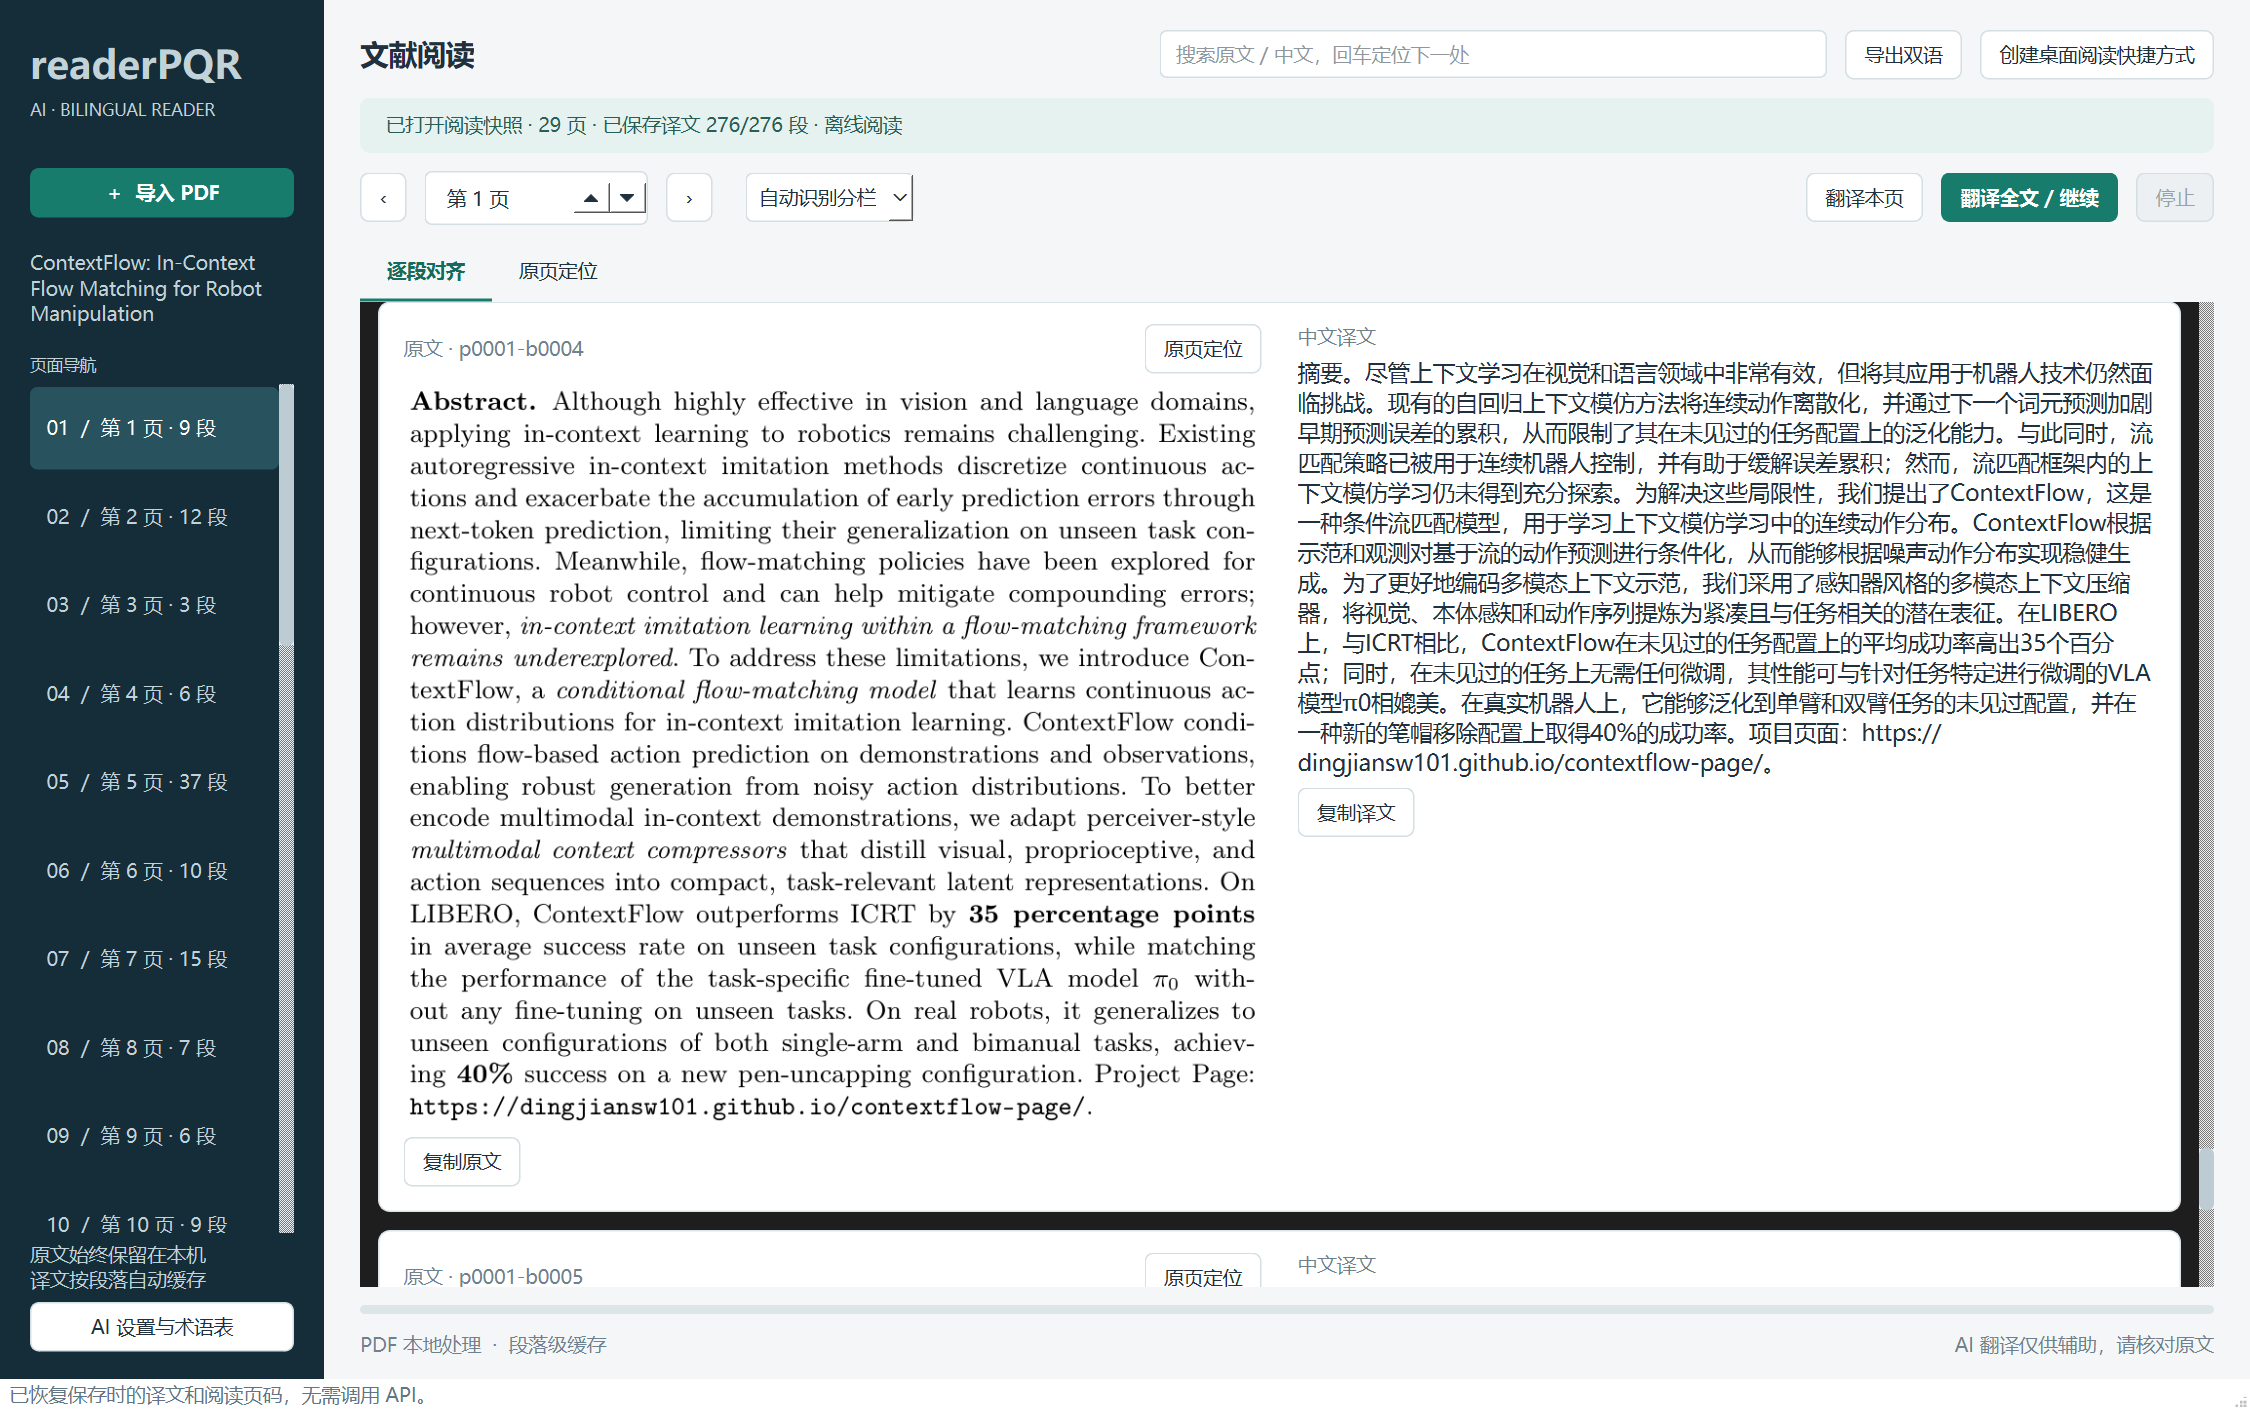
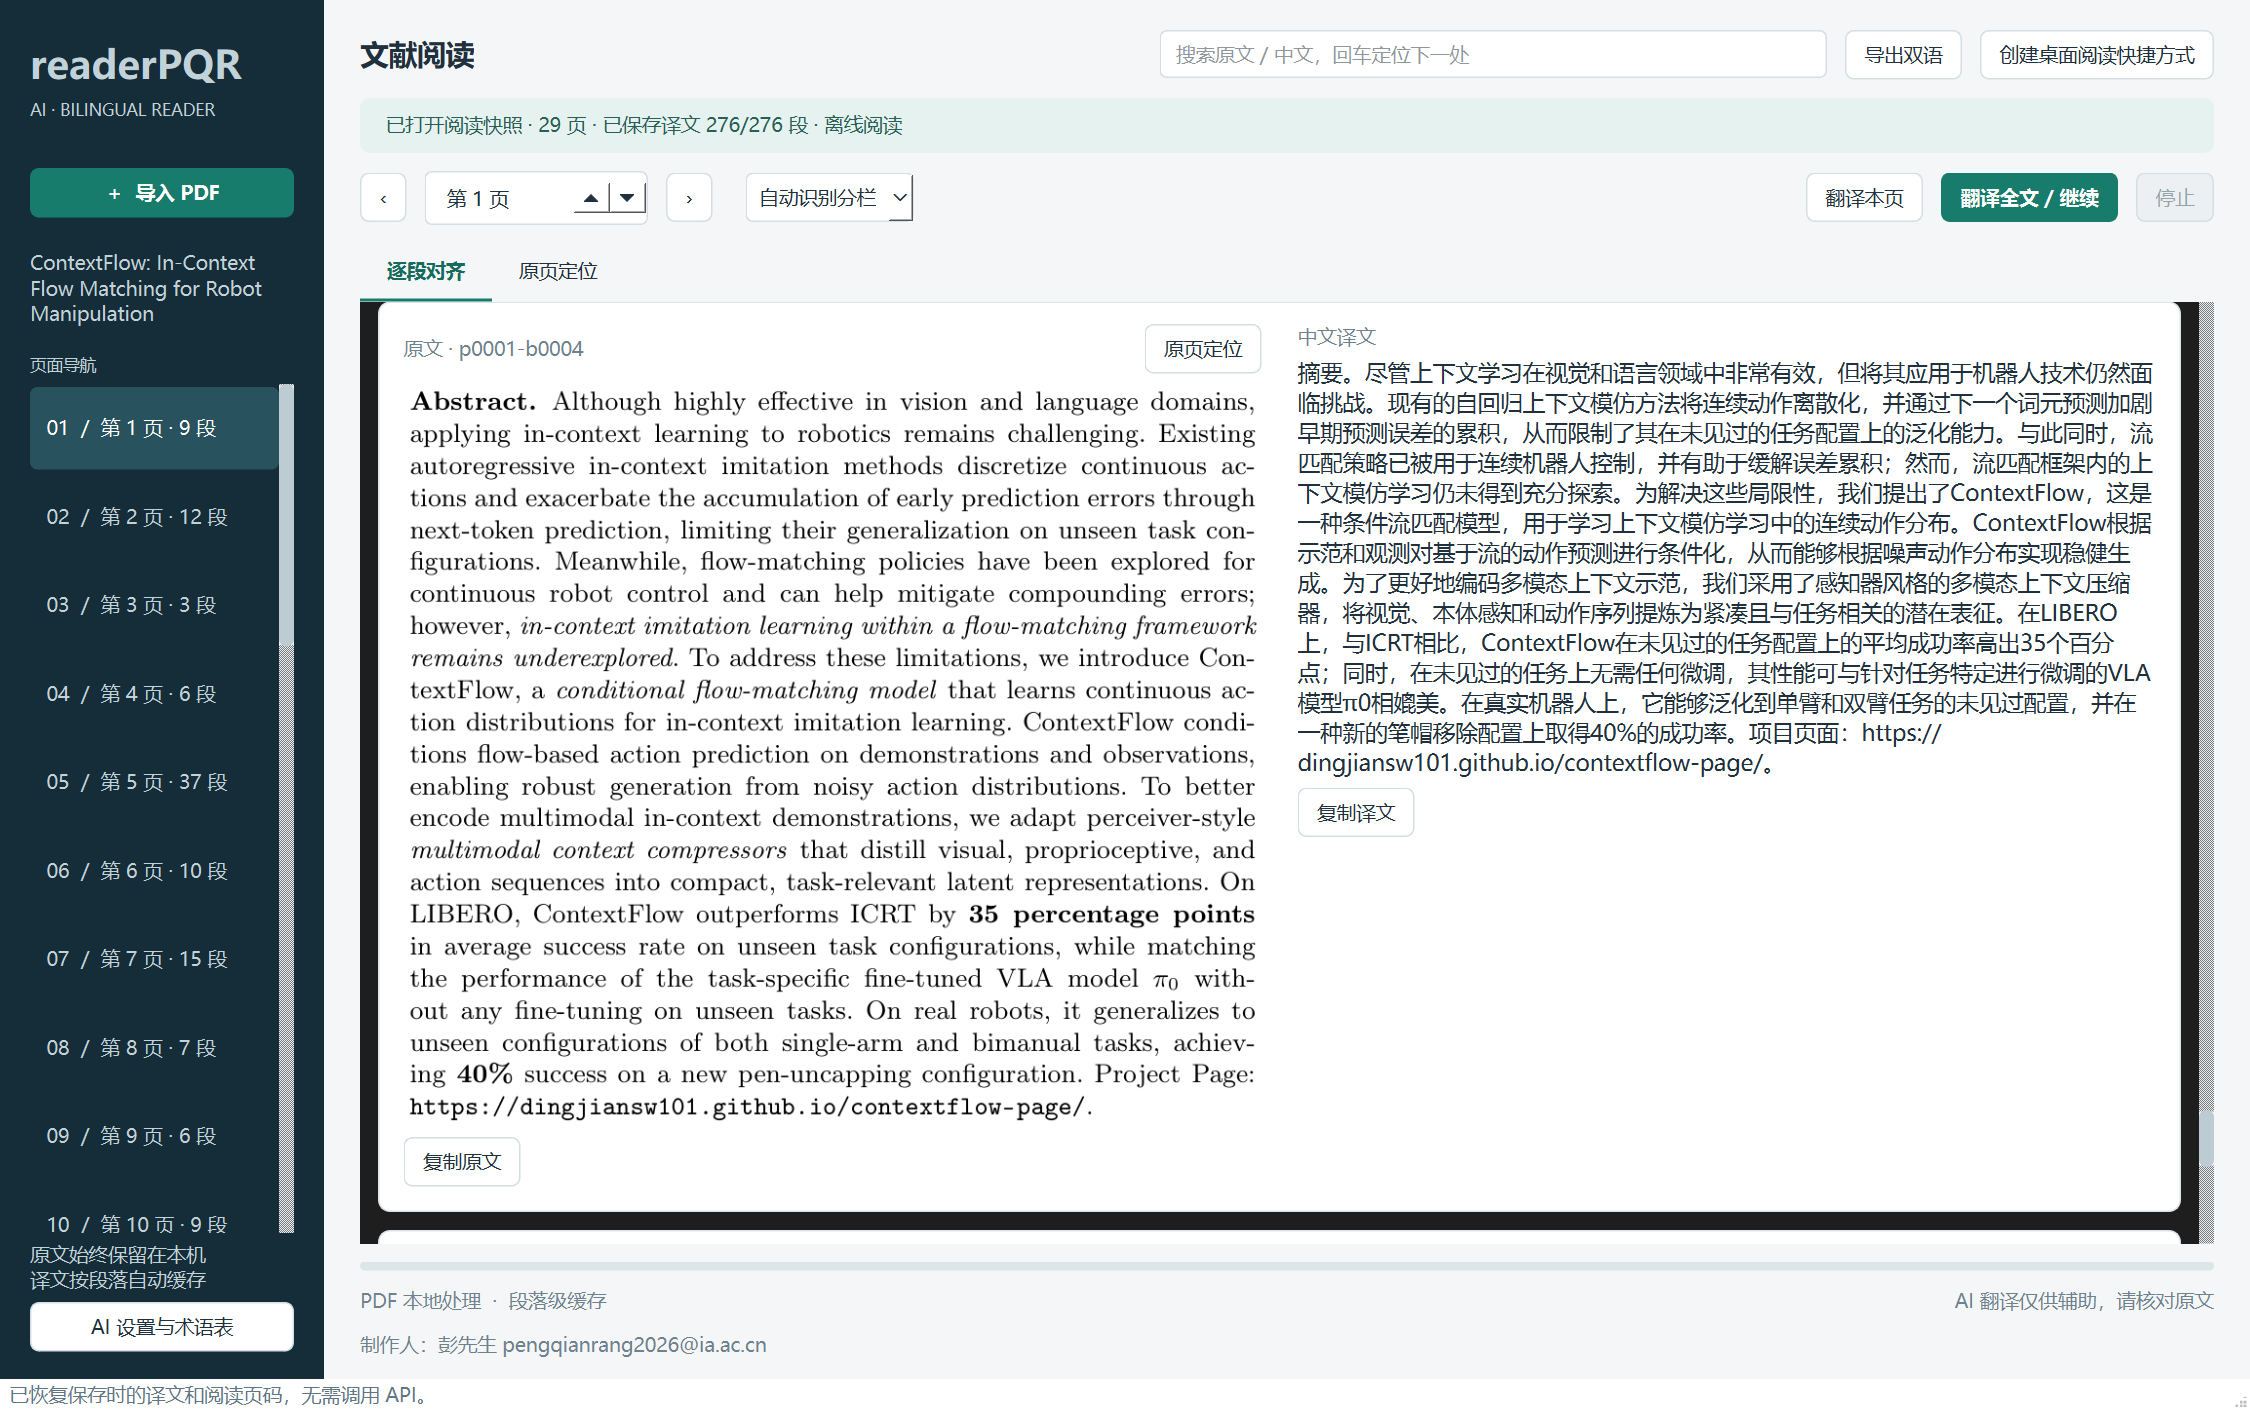
Add creator credit to README and reader interface

Changed region(s): [[0.1556, 0.7801, 0.9956, 0.9674]]

diff --git a/readerpqr/ui.py b/readerpqr/ui.py
@@ -244,6 +244,7 @@ class ReaderWindow(QMainWindow):
         bottom.addStretch()
         bottom.addWidget(label("AI 翻译仅供辅助，请核对原文", "muted"))
         main.addLayout(bottom)
+        main.addWidget(label("制作人：彭先生 pengqianrang2026@ia.ac.cn", "muted", True))
         outer.addWidget(body, 1)
         welcome = label("把 PDF 拖到这里\n\n或点击左侧「导入 PDF」\n\n首次使用请在「AI 设置与术语表」中填写接口和密钥。", "title", True)
         welcome.setAlignment(Qt.AlignmentFlag.AlignCenter)

diff --git a/README.md b/README.md
@@ -1,5 +1,7 @@
 # readerPQR
 
+制作人：彭先生 pengqianrang2026@ia.ac.cn
+
 面向 **Windows 11 x64** 的 AI 文献阅读器。导入 PDF，在本地提取文字与段落坐标，再通过你配置的 AI 接口生成 **逐页、逐段对齐的简体中文译文**。
 
 > 当前版本：0.1.0。需要自备模型 API，或启动兼容 Chat Completions 的本机模型服务。没有内置付费密钥。扫描 PDF 暂不内置 OCR；本版本不是保持原版式的整本中文 PDF 重排器。
